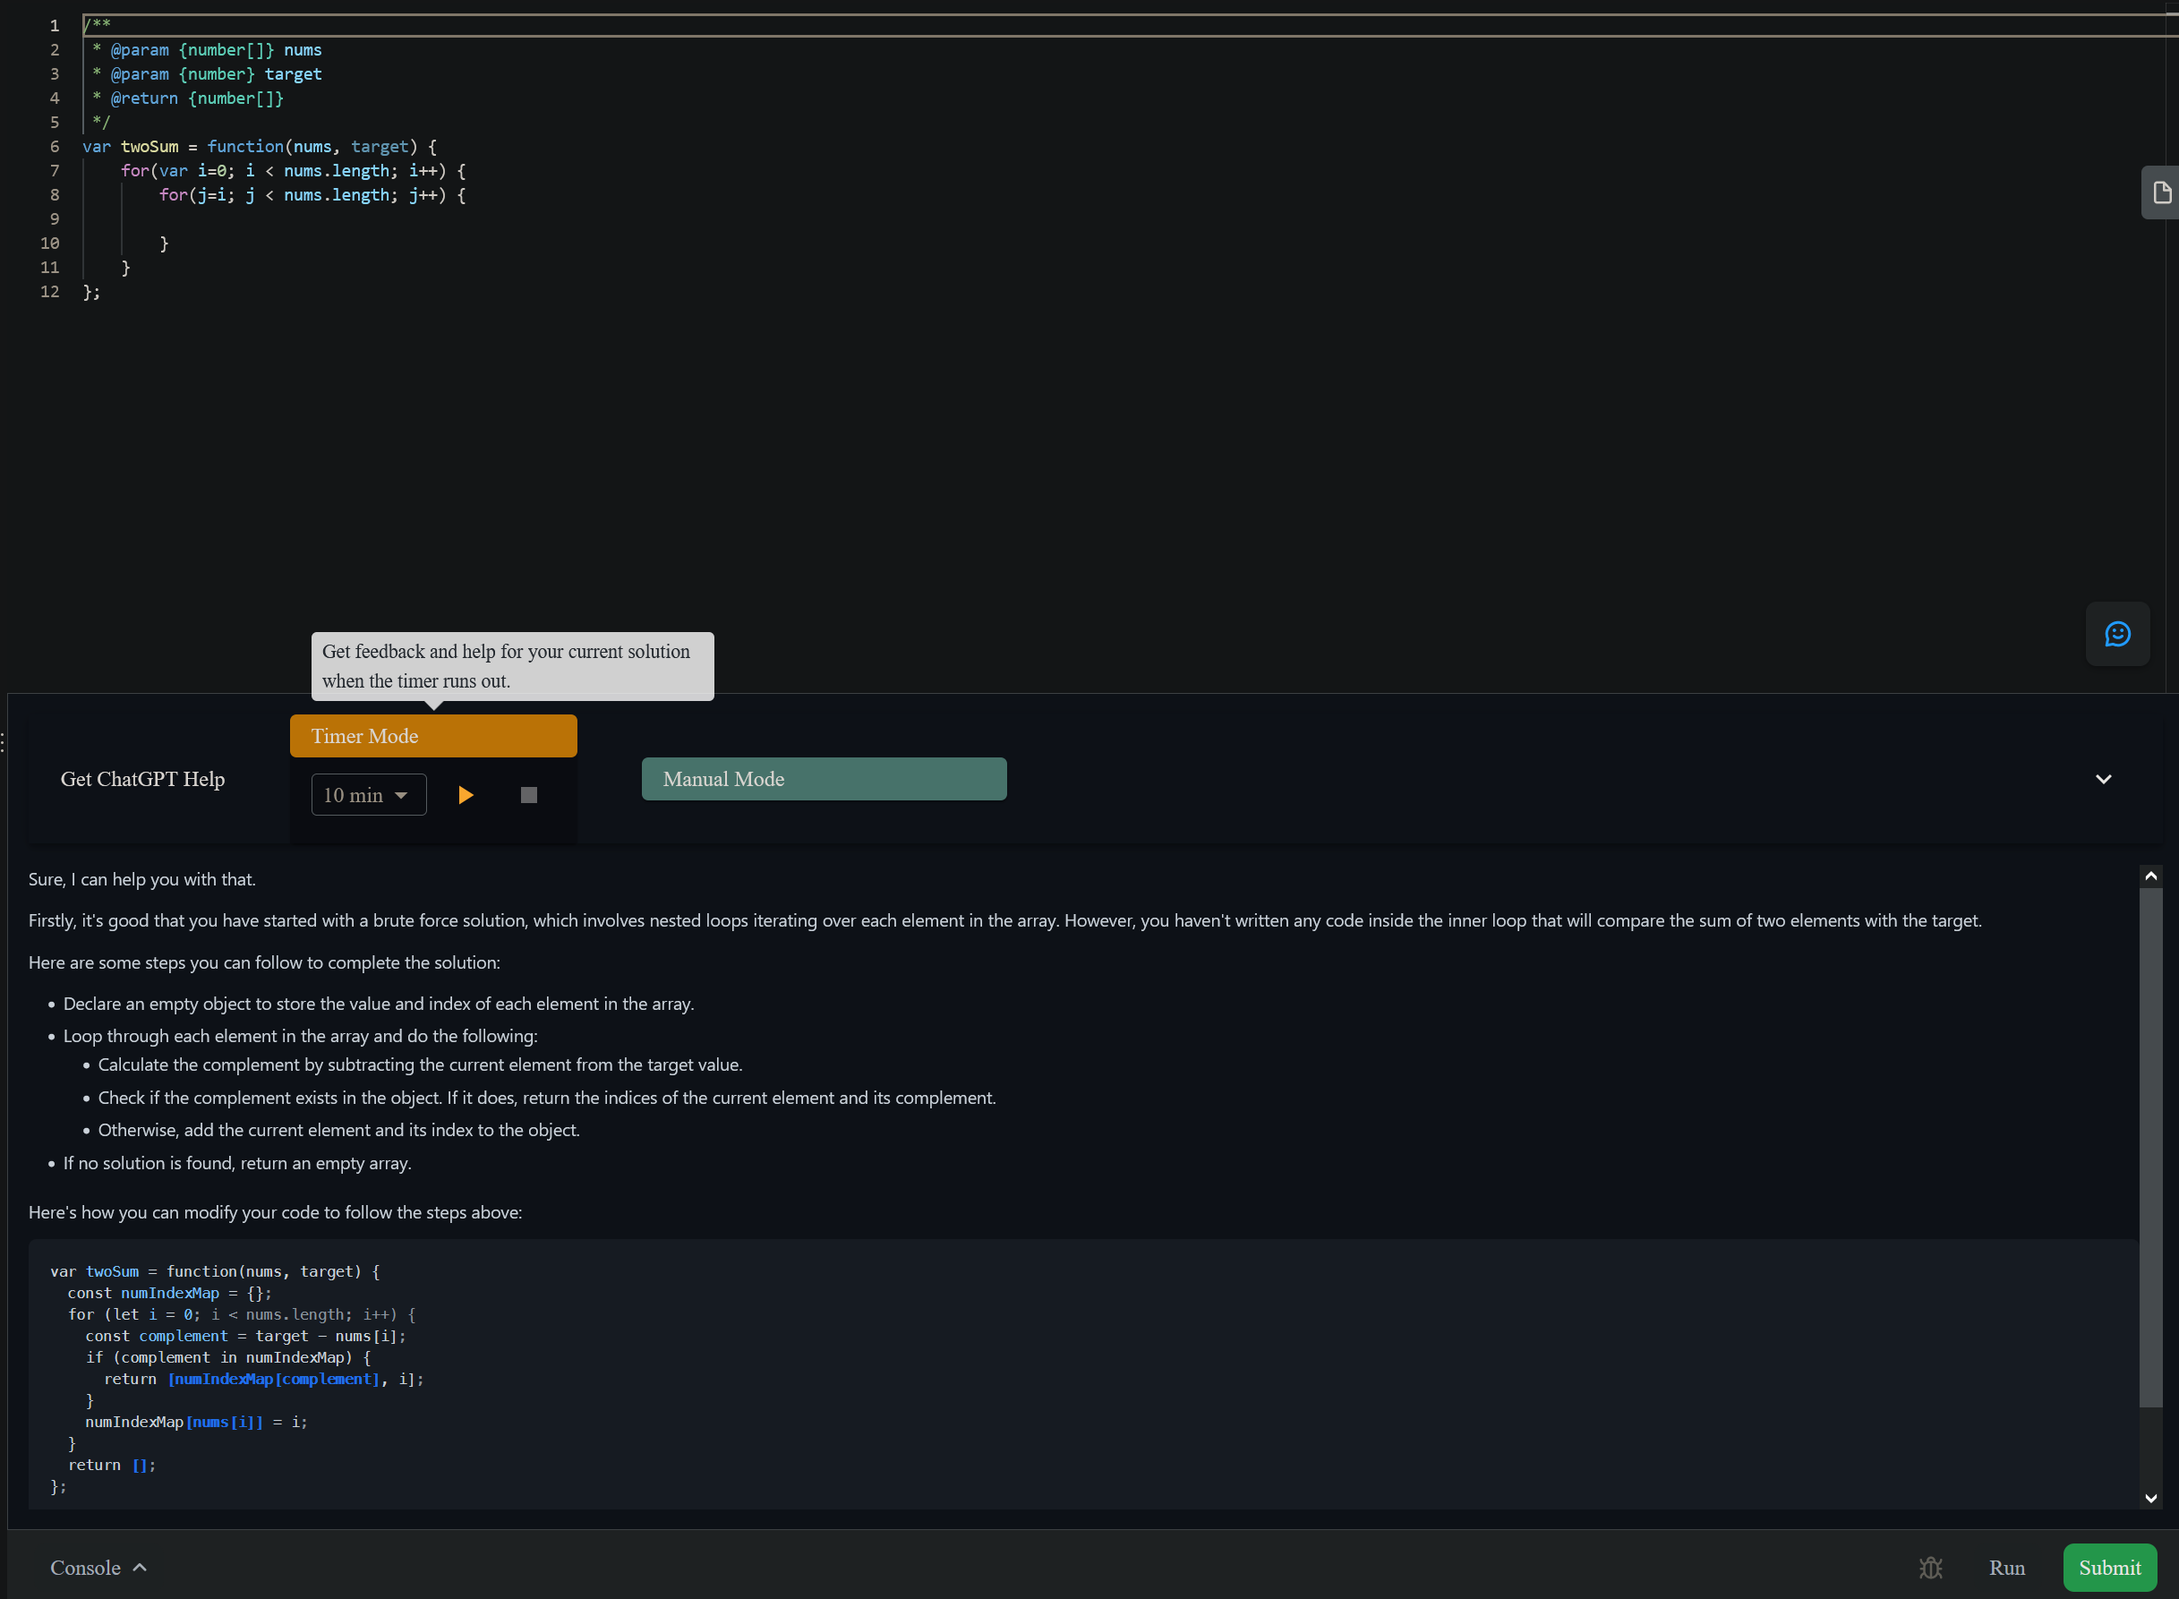
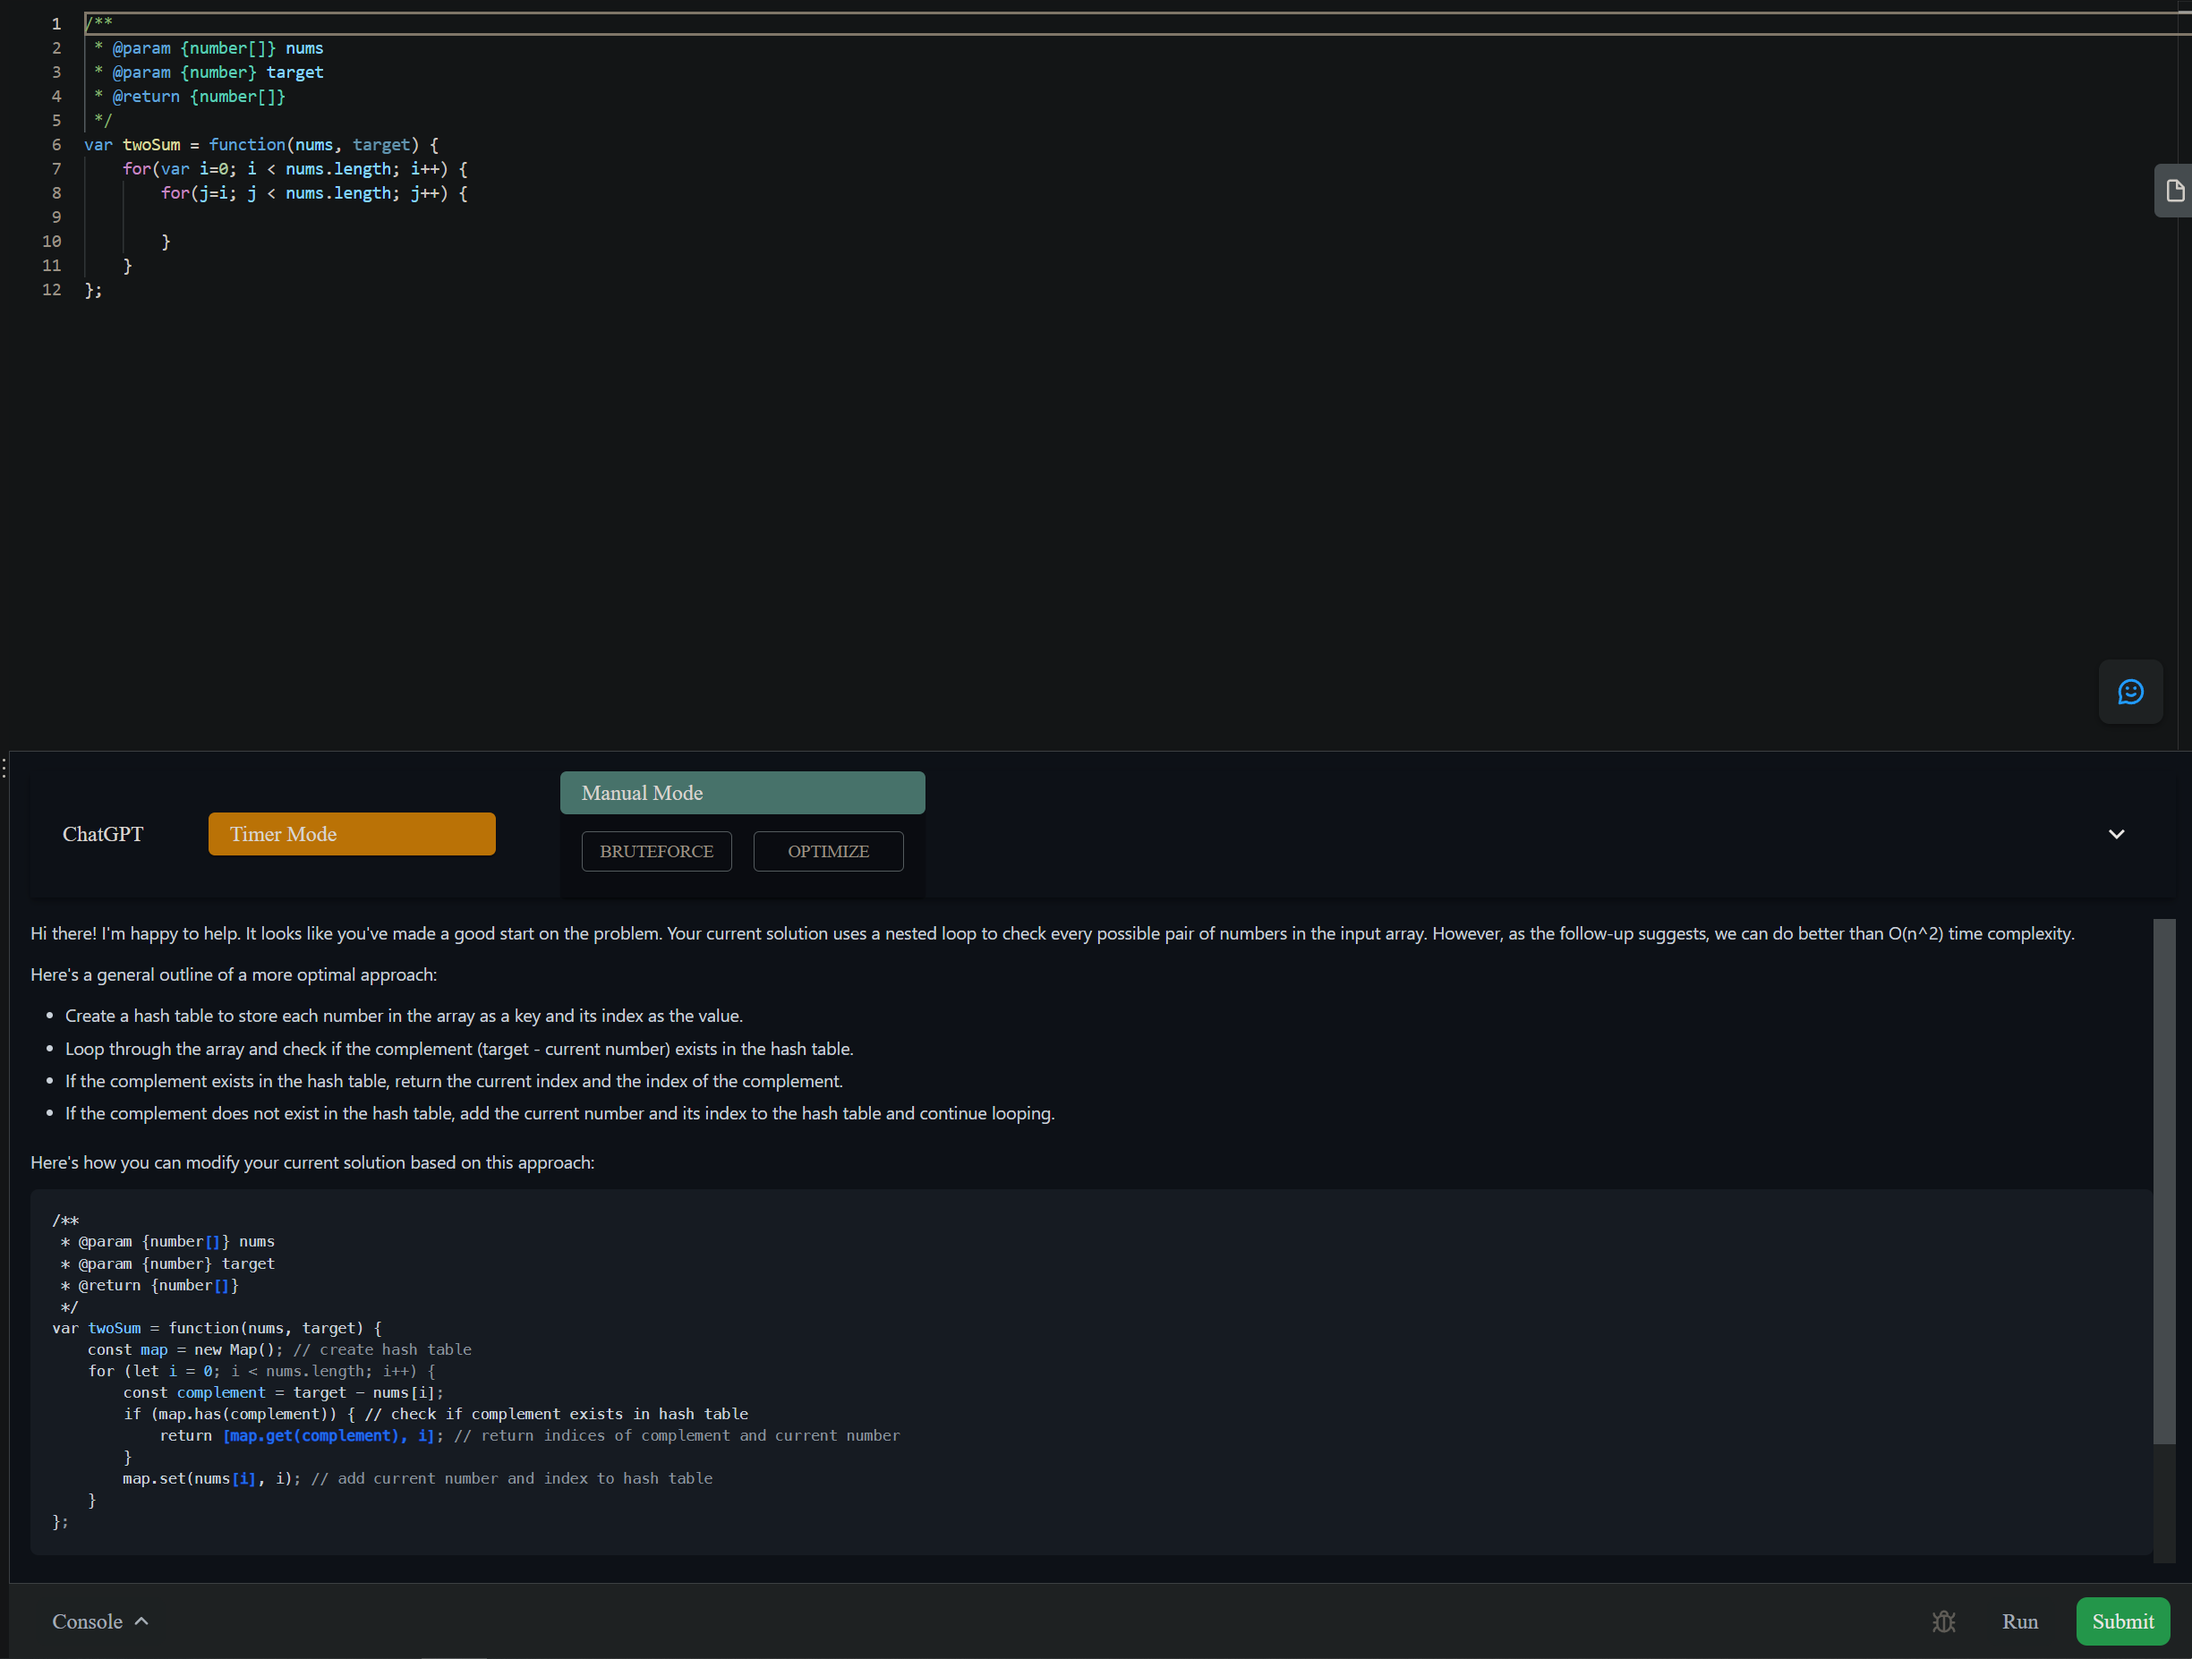
Hacker-rank supported now

diff --git a/src/ContentScript/index.tsx b/src/ContentScript/index.tsx
@@ -2,7 +2,7 @@ import ReactDOM from 'react-dom';
 import Response from '../components/Response';
 import { EngineModes } from '../engine';
 import { Engine } from '../interfaces';
-import { generateTriggerMode, getQuestionElement, getSolutionElement } from '../utils/common';
+import { generateTriggerMode, getHolderElement, getQuestionElement, getSolutionElement } from '../utils/common';
 
 import CssBaseline from '@mui/material/CssBaseline';
 import ThemeProvider from '@mui/material/styles/ThemeProvider';
@@ -21,9 +21,7 @@ const mount = (inpQ: string, inpS: string, trigger: TriggerMode, engCfg: Engine)
     sbContainer.prepend(container);
   } else {
     container.classList.add('sidebar-free');
-    const appendContainer =
-      document.getElementsByClassName(engCfg.appendContainerRight[0])[1] ||
-      document.getElementsByClassName(engCfg.appendContainerLeft[0])[1];
+    const appendContainer = getHolderElement(trigger);
 
     if (appendContainer) {
       appendContainer.insertBefore(container, appendContainer.firstChild);
@@ -41,11 +39,16 @@ const mount = (inpQ: string, inpS: string, trigger: TriggerMode, engCfg: Engine)
 };
 
 const tMode = generateTriggerMode();
+if (!tMode) {
+  throw new Error(`err:TriggerMode could not be generated`);
+}
+
+console.debug(`MODE ACTIVATION::: ${tMode}`);
 const engCfg = EngineModes[tMode];
 
 const run = () => {
-  const inputQuestion = getQuestionElement();
-  const inputSolution = getSolutionElement();
+  const inputQuestion = getQuestionElement(tMode);
+  const inputSolution = getSolutionElement(tMode);
 
   if (
     inputQuestion !== undefined &&
@@ -61,8 +64,9 @@ const run = () => {
 };
 
 const mutationObserver = new MutationObserver((mutations) => {
-  const inputQuestion = getQuestionElement();
-  const inputSolution = getSolutionElement();
+  const inputQuestion = getQuestionElement(tMode);
+  const inputSolution = getSolutionElement(tMode);
+
   if (
     inputQuestion !== undefined &&
     inputQuestion.textContent &&
@@ -72,6 +76,7 @@ const mutationObserver = new MutationObserver((mutations) => {
     inputSolution.textContent.length > 5
   ) {
     mount(inputQuestion.textContent, inputSolution.textContent, tMode, engCfg);
+    console.debug(`Mounting ChatGPT on ${tMode} trigger`);
     mutationObserver.disconnect();
   }
 });

diff --git a/src/utils/common.ts b/src/utils/common.ts
@@ -53,21 +53,44 @@ export function querySelectElement<T extends Element>(possibleItems: string[]): 
 }
 
 export const generateTriggerMode = () => {
-  const submissionRegex = new RegExp(Object.keys(EngineModes).join('.*'));
+  for (const val of Object.keys(EngineModes)) {
+    const currRegex = new RegExp(`${EngineModes[val].host}.*${val}`);
+    if (currRegex.test(location.href)) return val as TriggerMode;
+  }
 
-  return submissionRegex.test(location.hostname) ? TriggerMode.Submission : TriggerMode.Problem;
+  return null;
 };
 
-export const getQuestionElement = () => {
-  const qElem = document.getElementById('__next');
-  const qChild = qElem?.getElementsByClassName('_1l1MA')[0];
+export const getQuestionElement = (tMode: TriggerMode) => {
+  const cfg = EngineModes[tMode];
+  const qElem = document.getElementById(cfg.input_question[0]);
+  const qChild = qElem?.getElementsByClassName(cfg.input_question[1])[0];
 
   return qChild;
 };
 
-export const getSolutionElement = () => {
-  const sElem = document.getElementById('qd-content');
-  const sChild = sElem?.getElementsByClassName('view-lines')[0];
+export const getSolutionElement = (tMode: TriggerMode) => {
+  const cfg = EngineModes[tMode];
+  const sElem = document.getElementById(cfg.input_code[0]);
+  const sChild = sElem?.getElementsByClassName(cfg.input_code[1])[0];
+
+  return sChild;
+};
+
+export const getHolderElement = (tMode: TriggerMode) => {
+  const cfg = EngineModes[tMode];
+  const sElem = document.getElementById(cfg.input_code[0]);
+  let sChild;
+
+  if (tMode === TriggerMode.Problem) {
+    sChild =
+      sElem?.getElementsByClassName(cfg.appendContainerRight[0])[1] ||
+      sElem?.getElementsByClassName(cfg.appendContainerLeft[0])[1];
+  } else if (tMode === TriggerMode.Challenge) {
+    sChild =
+      sElem?.getElementsByClassName(cfg.appendContainerRight[0])[0] ||
+      sElem?.getElementsByClassName(cfg.appendContainerLeft[0])[0];
+  }
 
   return sChild;
 };

diff --git a/src/engine.ts b/src/engine.ts
@@ -2,17 +2,21 @@ import { Engine } from './interfaces/engine';
 
 export const EngineModes: Record<string, Engine> = {
   problem: {
+    // leetcode
+    host: 'leetcode',
     input_question: ['__next', '_1l1MA'],
     input_code: ['qd-content', 'view-lines'],
     sidebarContainer: ['rhs'],
     appendContainerRight: ['ssg__qd-console-position--right'],
     appendContainerLeft: ['ssg__qd-console-position--left'],
   },
-  submission: {
-    input_question: ["input[name='']"],
-    input_code: ["input[name='']"],
-    sidebarContainer: ['#rhs'],
-    appendContainerRight: ['ssg__qd-console-position--right'],
-    appendContainerLeft: ['ssg__qd-console-position--left'],
+  challenge: {
+    // hacker-rank
+    host: 'hackerrank',
+    input_question: ['content', 'challenge-body-html'],
+    input_code: ['content', 'view-lines'],
+    sidebarContainer: ['rhs'],
+    appendContainerRight: ['hr-monaco-editor-statusbar'],
+    appendContainerLeft: ['hr-monaco-custom-input-wrapper'],
   },
 };

diff --git a/src/components/Query/NavBar.tsx b/src/components/Query/NavBar.tsx
@@ -63,7 +63,7 @@ const NavBar: FC<NavBarProps> = (props) => {
     <AppBar position='static' color='transparent'>
       <Toolbar variant='dense'>
         <Typography variant='body1' component='div' mr='2rem'>
-          Get ChatGPT Help
+          ChatGPT
         </Typography>
         <Box sx={{ ml: '1rem' }}>
           <Accordion

diff --git a/src/interfaces/client.ts b/src/interfaces/client.ts
@@ -11,7 +11,7 @@ export interface IClient {
 
 export enum TriggerMode {
   Problem = 'problem',
-  Submission = 'submission',
+  Challenge = 'challenge',
 }
 
 export enum AssistanceMode {

diff --git a/src/interfaces/engine.ts b/src/interfaces/engine.ts
@@ -1,4 +1,5 @@
 export interface Engine {
+  host: string;
   input_question: string[];
   input_code: string[];
   sidebarContainer: string[];

diff --git a/README.md b/README.md
@@ -1,21 +1,17 @@
 # LeetChatGPT
 ## AI-powered browser extension that enhances your leetcode experience
 ### Installation
-- [Chrome Web Store]()
+- [Chrome Web Store](https://chrome.google.com/webstore/detail/leetchatgpt/ephkkockglkjbdljoljjfdlfmgkeijek)
 - [Firefox Add-on Store](https://addons.mozilla.org/en-US/firefox/addon/leetchatgpt)
 
-## Screenshot
-![Screenshot](promotion/screenshot.png?raw=true)
-
-## Supported plaforms
+## Supported questions
 - Leetcode
-- Hacker-Rank
-- Code signal
-- GeeksforGeeks
-- Codeacademy
+![Leetcode](promotion/screenshot.png?raw=true)
+- HackerRank
+![Hackerrank](promotion/screenshot1.png?raw=true)
 
 ## Features
-- Supports both free and premium leetcode questions
+- Supports both leetcode and hacker-rank questions
 - Timer Mode: Get feedback and help for your current solution when a timer runs out
 - Manual Mode: Get feedback for your current solution towards a brute-force or optimal solution on demand
 - Markdown rendering and Code highlights
